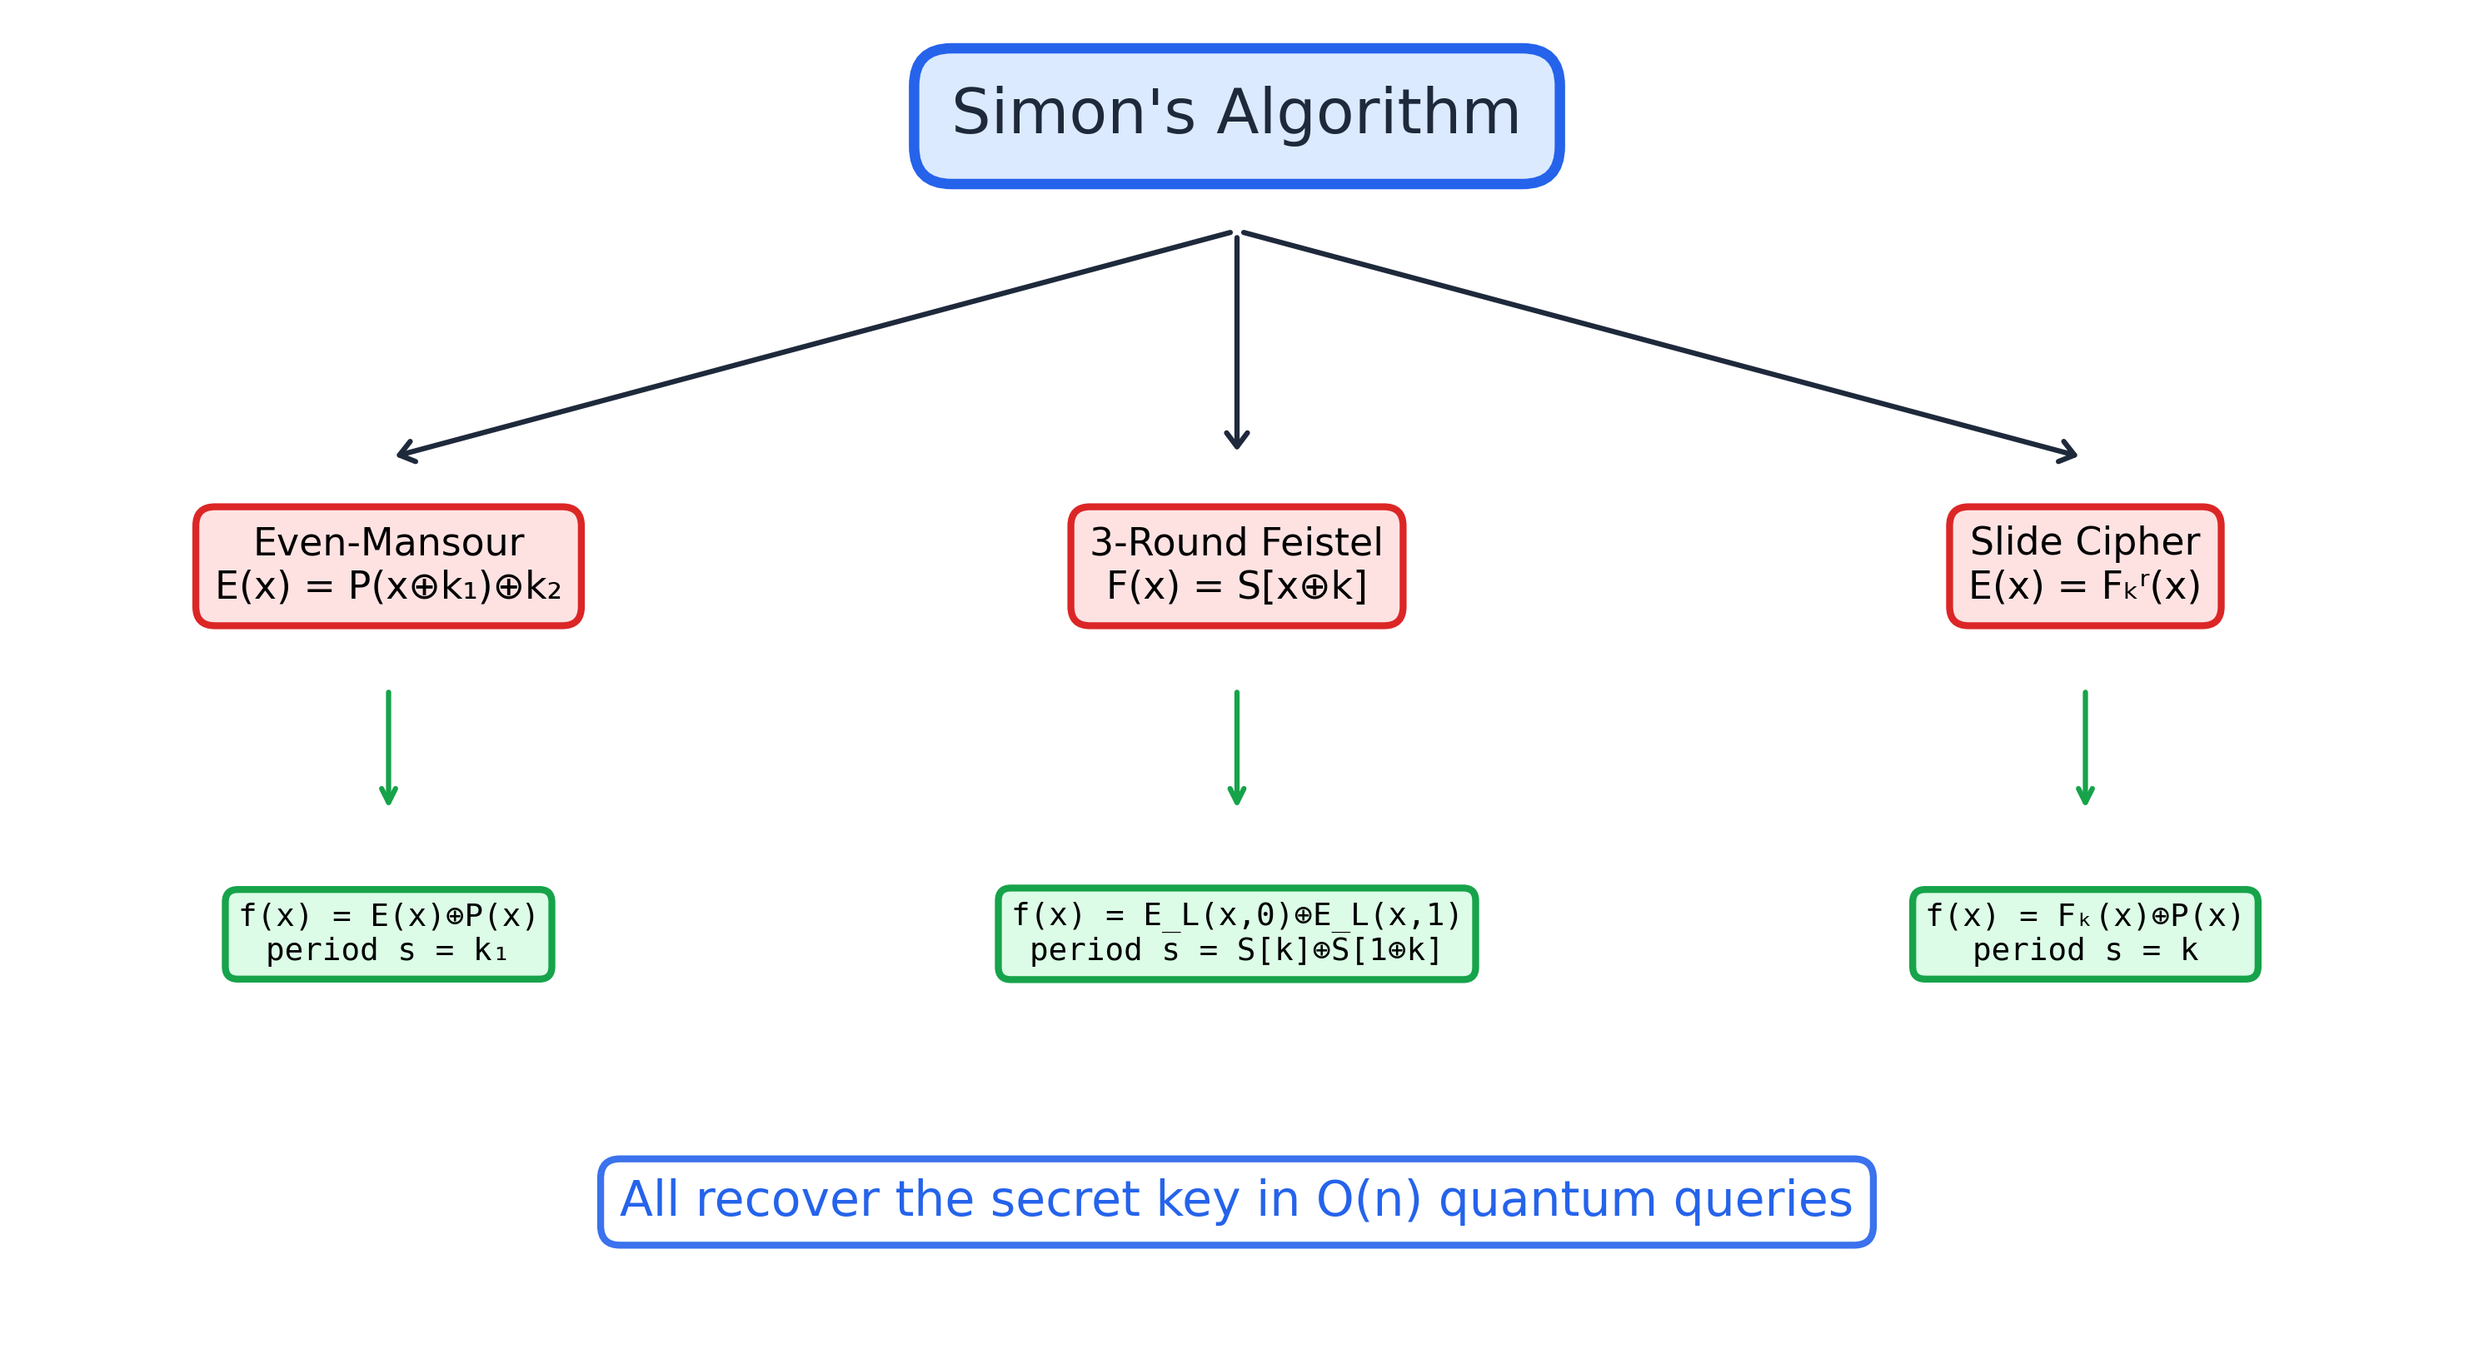
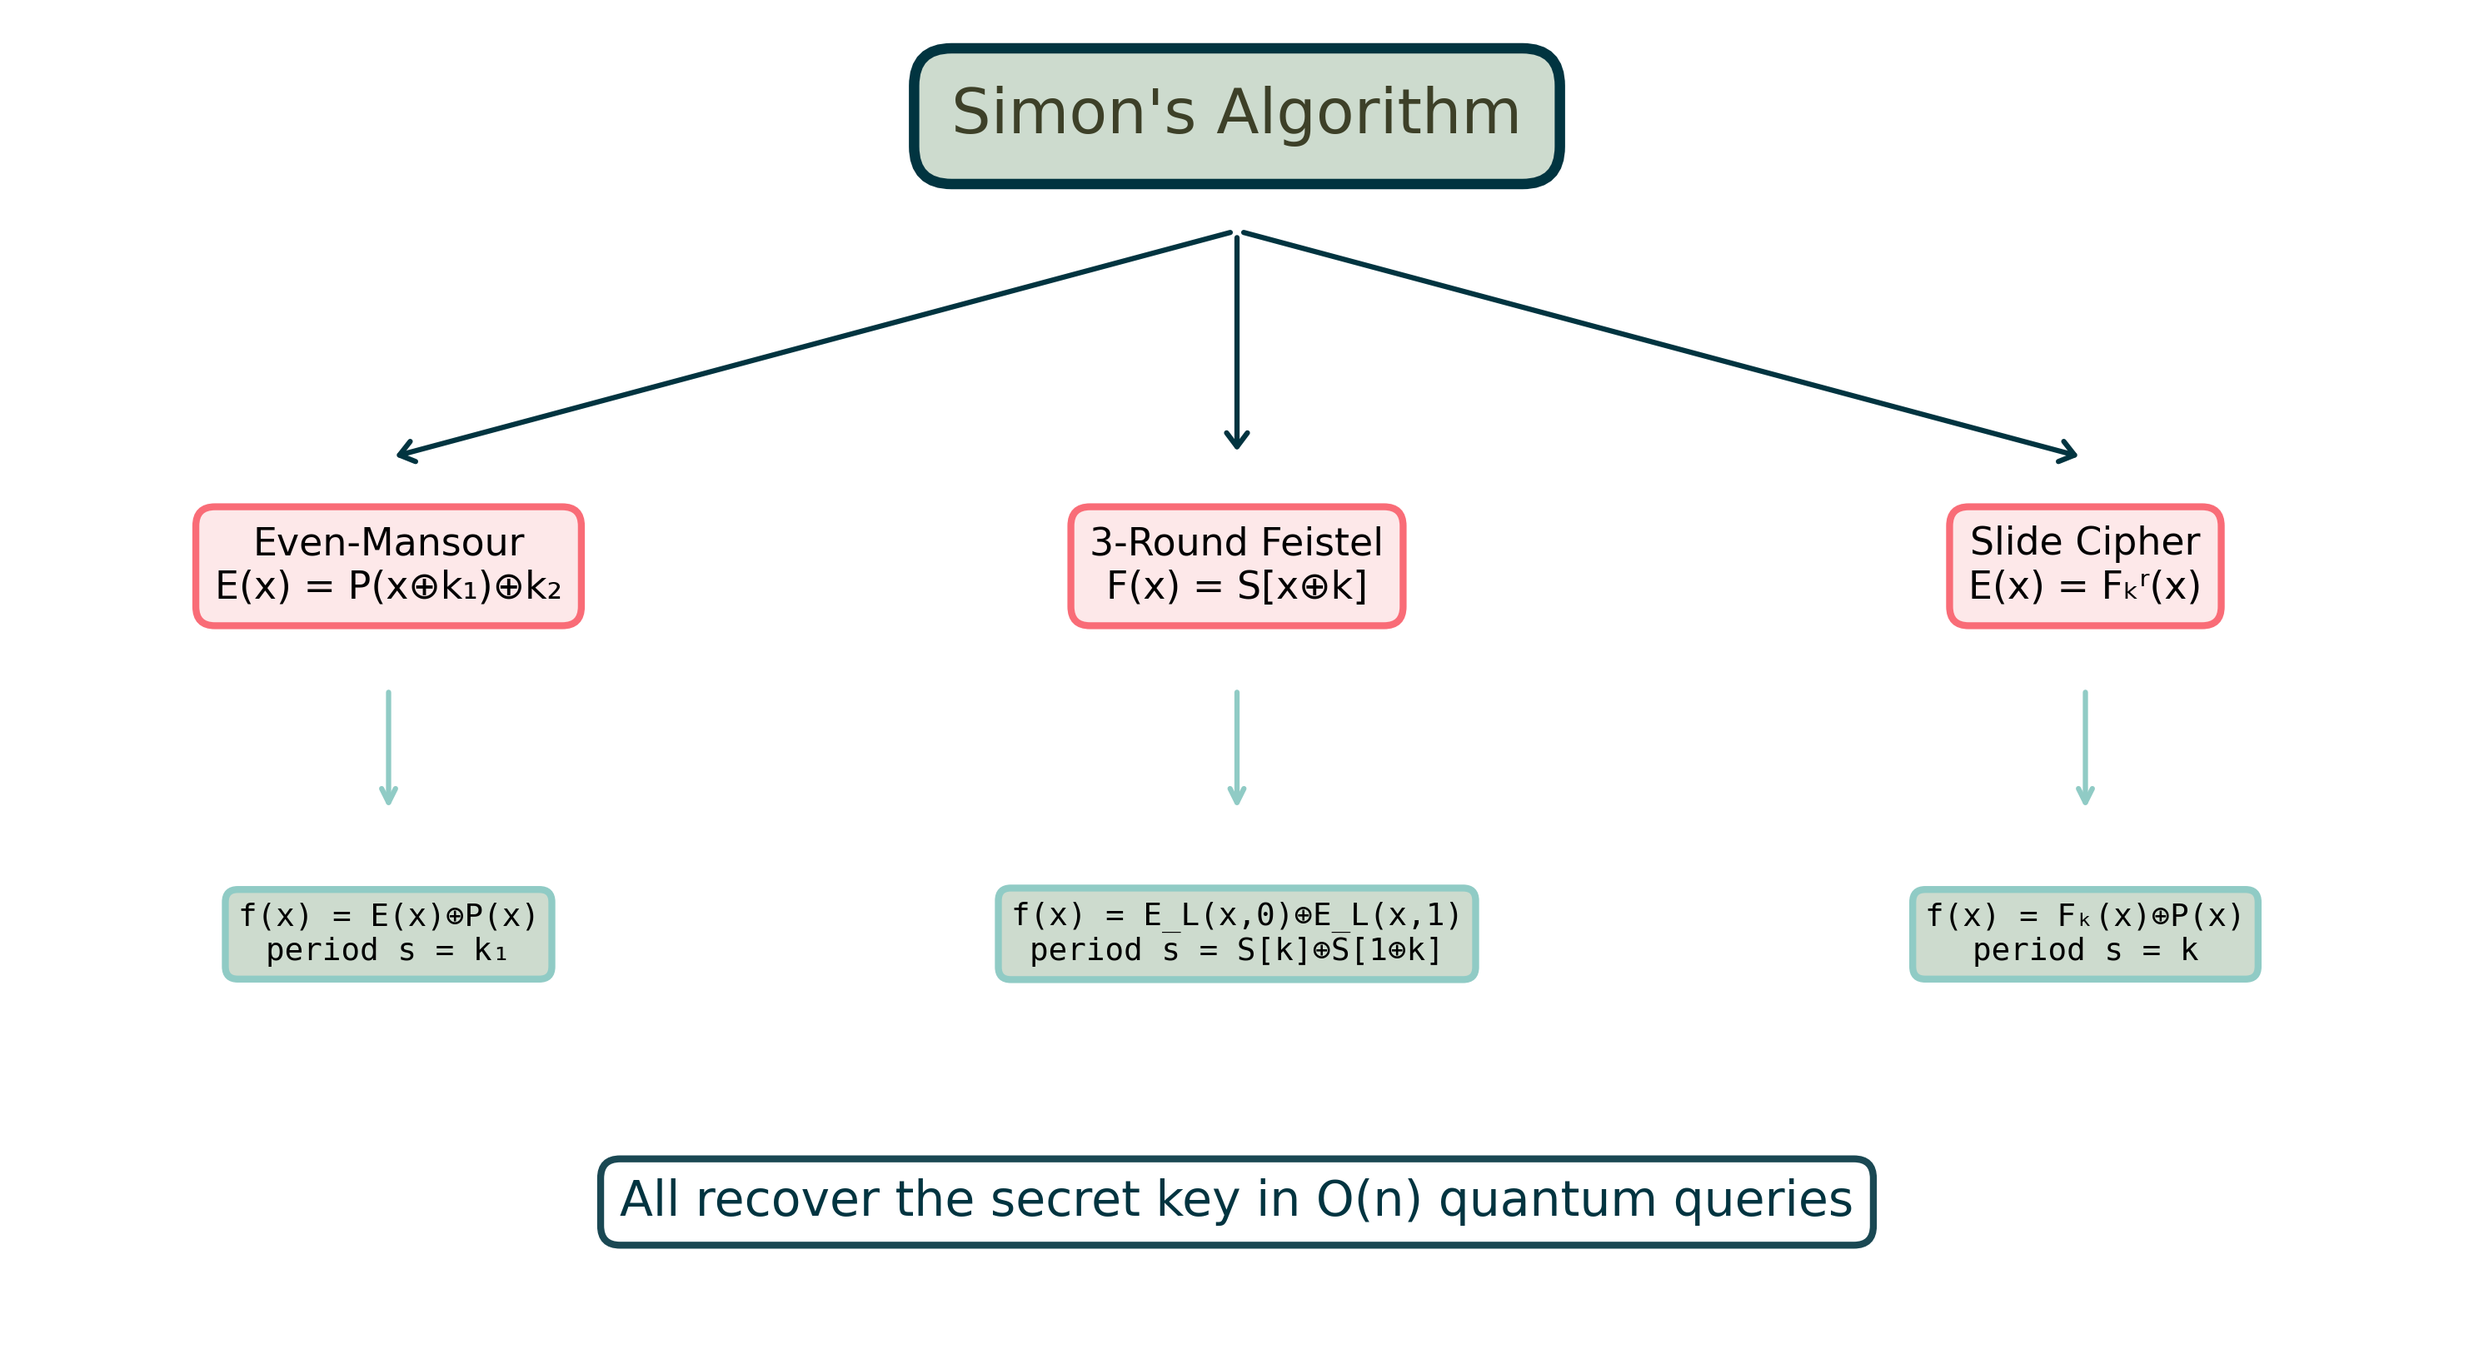
Update poster figures to sage/teal/coral color palette
New palette: #3D4028 (dark), #A5A685 (sage), #CDDBCE (mint),
#90CBC5 (teal), #013440 (navy), #F96C77 (coral for highlights).

https://claude.ai/code/session_017jT87xoW9hxJGxP6ZDqaGx

diff --git a/generate_poster_figures.py b/generate_poster_figures.py
@@ -19,14 +19,12 @@ OUT = Path("poster_figures")
 OUT.mkdir(exist_ok=True)
 
 COLORS = {
-    "blue":   "#2563EB",
-    "red":    "#DC2626",
-    "green":  "#16A34A",
-    "orange": "#EA580C",
-    "purple": "#7C3AED",
-    "teal":   "#0D9488",
-    "gray":   "#6B7280",
-    "dark":   "#1E293B",
+    "dark":   "#3D4028",
+    "sage":   "#A5A685",
+    "mint":   "#CDDBCE",
+    "teal":   "#90CBC5",
+    "navy":   "#013440",
+    "coral":  "#F96C77",
 }
 
 def style_ax(ax, title, xlabel, ylabel):
@@ -46,7 +44,7 @@ def fig_noise_phase_transition():
     fig, ax = plt.subplots(figsize=(7, 5))
 
     markers = ["o", "s", "D"]
-    colors = [COLORS["blue"], COLORS["red"], COLORS["orange"]]
+    colors = [COLORS["navy"], COLORS["teal"], COLORS["sage"]]
     for i, (n, rates) in enumerate(sorted(data.items(), key=lambda x: int(x[0]))):
         eps = [float(e) * 100 for e in sorted(rates.keys(), key=float)]
         success = [rates[e] * 100 for e in sorted(rates.keys(), key=float)]
@@ -54,12 +52,12 @@ def fig_noise_phase_transition():
                 linewidth=2.5, markersize=8, label=f"n = {n} bits",
                 zorder=3)
 
-    ax.axvspan(30, 42, alpha=0.12, color=COLORS["red"], zorder=0)
+    ax.axvspan(30, 42, alpha=0.15, color=COLORS["coral"], zorder=0)
     ax.annotate("Phase\ntransition", xy=(36, 72), fontsize=11,
-                color=COLORS["red"], ha="center", fontweight="normal")
+                color=COLORS["coral"], ha="center", fontweight="normal")
 
-    ax.axhline(y=50, color=COLORS["gray"], linestyle=":", linewidth=1, alpha=0.5)
-    ax.text(2, 52, "Random guessing", fontsize=9, color=COLORS["gray"])
+    ax.axhline(y=50, color=COLORS["sage"], linestyle=":", linewidth=1, alpha=0.5)
+    ax.text(2, 52, "Random guessing", fontsize=9, color=COLORS["sage"])
 
     style_ax(ax, "Noise Resilience: Sharp Phase Transition",
              "Measurement Noise Rate (%)", "Key Recovery Success (%)")
@@ -87,7 +85,7 @@ def fig_slide_round_independence():
         r_vals = [int(r) for r in rounds]
         success = [results[r]["success_rate"] * 100 for r in rounds]
         times = [results[r]["mean_time_s"] for r in rounds]
-        color = COLORS["blue"] if n_str == "3" else COLORS["red"]
+        color = COLORS["navy"] if n_str == "3" else COLORS["teal"]
         marker = "o" if n_str == "3" else "s"
 
         ax1.plot(r_vals, success, marker=marker, color=color,
@@ -106,8 +104,8 @@ def fig_slide_round_independence():
 
     ax1.annotate("Flat line = round count\nis irrelevant!",
                  xy=(50, 60), xytext=(10, 30),
-                 fontsize=10, color=COLORS["blue"],
-                 arrowprops=dict(arrowstyle="->", color=COLORS["blue"]),
+                 fontsize=10, color=COLORS["navy"],
+                 arrowprops=dict(arrowstyle="->", color=COLORS["navy"]),
                  fontweight="normal")
 
     style_ax(ax2, "Attack Time vs Round Count",
@@ -143,15 +141,15 @@ def fig_query_complexity():
     width = 0.35
 
     bars = ax.bar(x - width/2, means, width, yerr=stds, capsize=5,
-                  color=COLORS["blue"], alpha=0.85, label="Measured (mean ± std)",
+                  color=COLORS["navy"], alpha=0.85, label="Measured (mean ± std)",
                   zorder=3, edgecolor="white", linewidth=0.5)
     ax.bar(x + width/2, theoretical, width,
-           color=COLORS["gray"], alpha=0.4, label="Theoretical min (n−1)",
+           color=COLORS["sage"], alpha=0.5, label="Theoretical min (n−1)",
            zorder=3, edgecolor="white", linewidth=0.5)
 
     for i, (m, n) in enumerate(zip(means, n_vals)):
         ax.text(i - width/2, m + stds[i] + 0.3, f"{m/n:.2f}n",
-                ha="center", fontsize=9, fontweight="normal", color=COLORS["dark"])
+                ha="center", fontsize=9, fontweight="normal", color=COLORS["navy"])
 
     ax.set_xticks(x)
     ax.set_xticklabels([f"n={n}" for n in n_vals])
@@ -187,19 +185,19 @@ def fig_timing_curves():
             ns_em.append(n)
             times_em.append(entry["even_mansour_s"])
 
-    ax.semilogy(ns_simon, times_simon, "o-", color=COLORS["blue"],
+    ax.semilogy(ns_simon, times_simon, "o-", color=COLORS["navy"],
                 linewidth=2.5, markersize=8, label="Simon's (basic oracle)")
-    ax.semilogy(ns_em, times_em, "s-", color=COLORS["red"],
+    ax.semilogy(ns_em, times_em, "s-", color=COLORS["coral"],
                 linewidth=2.5, markersize=8, label="Even-Mansour (truth-table)")
 
     for n, t in zip(ns_simon, times_simon):
         label = f"{t:.2f}s" if t >= 0.1 else f"{t*1000:.0f}ms"
         ax.annotate(label, (n, t), textcoords="offset points",
-                    xytext=(10, 5), fontsize=9, color=COLORS["blue"])
+                    xytext=(10, 5), fontsize=9, color=COLORS["navy"])
     for n, t in zip(ns_em, times_em):
         label = f"{t:.1f}s" if t >= 1 else f"{t:.2f}s"
         ax.annotate(label, (n, t), textcoords="offset points",
-                    xytext=(10, -15), fontsize=9, color=COLORS["red"])
+                    xytext=(10, -15), fontsize=9, color=COLORS["coral"])
 
     style_ax(ax, "Simulation Time Scales Exponentially",
              "Key Size n (bits)", "Wall-Clock Time (seconds, log scale)")
@@ -220,7 +218,9 @@ def fig_rank_convergence():
 
     fig, ax = plt.subplots(figsize=(7, 5))
 
-    cmap = plt.cm.viridis
+    from matplotlib.colors import LinearSegmentedColormap
+    palette = [COLORS["navy"], COLORS["teal"], COLORS["mint"], COLORS["sage"], COLORS["dark"]]
+    cmap = LinearSegmentedColormap.from_list("poster", palette, N=256)
     n_keys = sorted(data.keys(), key=int)
     colors_list = [cmap(i / (len(n_keys) - 1)) for i in range(len(n_keys))]
 
@@ -238,10 +238,10 @@ def fig_rank_convergence():
         ax.plot(queries, fracs, "o-", color=colors_list[idx],
                 linewidth=2, markersize=5, label=f"n = {n_str}")
 
-    ax.axhline(y=50, color=COLORS["gray"], linestyle=":", linewidth=1, alpha=0.5)
-    ax.axhline(y=99, color=COLORS["green"], linestyle="--", linewidth=1, alpha=0.4)
-    ax.text(18, 52, "50%", fontsize=9, color=COLORS["gray"])
-    ax.text(18, 95, "99%", fontsize=9, color=COLORS["green"])
+    ax.axhline(y=50, color=COLORS["sage"], linestyle=":", linewidth=1, alpha=0.5)
+    ax.axhline(y=99, color=COLORS["teal"], linestyle="--", linewidth=1, alpha=0.4)
+    ax.text(18, 52, "50%", fontsize=9, color=COLORS["sage"])
+    ax.text(18, 95, "99%", fontsize=9, color=COLORS["teal"])
 
     style_ax(ax, "How Quickly Does Simon's Algorithm Converge?",
              "Number of Oracle Queries", "Trials Solved (%)")
@@ -265,7 +265,7 @@ def fig_success_rates():
 
     attacks = ["simon_basic", "even_mansour", "feistel_3round", "slide_5rounds"]
     labels = ["Simon's", "Even-Mansour", "3-Round Feistel", "Slide Attack"]
-    atk_colors = [COLORS["blue"], COLORS["red"], COLORS["green"], COLORS["orange"]]
+    atk_colors = [COLORS["navy"], COLORS["teal"], COLORS["sage"], COLORS["coral"]]
 
     ns = ["3", "4", "5"]
     x = np.arange(len(ns))
@@ -282,7 +282,7 @@ def fig_success_rates():
         for j, v in enumerate(vals):
             if data[ns[j]].get(atk) is None:
                 ax.text(x[j] + offset, 3, "N/A", ha="center", fontsize=8,
-                        color=COLORS["gray"], rotation=90)
+                        color=COLORS["sage"], rotation=90)
             elif v < 100:
                 ax.text(x[j] + offset, v + 2, f"{v:.0f}%", ha="center",
                         fontsize=9, fontweight="normal")
@@ -310,19 +310,19 @@ def fig_simon_vs_grover():
     grover_queries = [int(np.pi / 4 * 2 ** (n / 2)) for n in n_vals]
     classical = [2 ** n for n in n_vals]
 
-    ax.semilogy(n_vals, classical, "^--", color=COLORS["gray"],
+    ax.semilogy(n_vals, classical, "^--", color=COLORS["sage"],
                 linewidth=2, markersize=8, label="Classical brute force  O(2ⁿ)",
                 alpha=0.6)
-    ax.semilogy(n_vals, grover_queries, "s-", color=COLORS["orange"],
+    ax.semilogy(n_vals, grover_queries, "s-", color=COLORS["teal"],
                 linewidth=2.5, markersize=8, label="Grover's search  O(2^{n/2})")
-    ax.semilogy(n_vals, simon_queries, "o-", color=COLORS["blue"],
+    ax.semilogy(n_vals, simon_queries, "o-", color=COLORS["navy"],
                 linewidth=2.5, markersize=10, label="Simon's algorithm  O(n)")
 
     ax.fill_between(n_vals, simon_queries, grover_queries,
-                    alpha=0.1, color=COLORS["blue"])
+                    alpha=0.1, color=COLORS["navy"])
     ax.annotate("Exponential\ngap!",
                 xy=(64, 1e5), fontsize=13, fontweight="normal",
-                color=COLORS["blue"], ha="center")
+                color=COLORS["coral"], ha="center")
 
     style_ax(ax, "Simon's Algorithm vs Classical & Grover",
              "Key Size n (bits)", "Oracle Queries (log scale)")
@@ -346,7 +346,7 @@ def fig_resource_estimates():
     t_gates = [13.1e6, 104.9e6, 838.9e6]
 
     bars1 = ax1.bar(targets, [q / 1e6 for q in physical_qubits],
-                    color=[COLORS["blue"], COLORS["red"], COLORS["purple"]],
+                    color=[COLORS["teal"], COLORS["navy"], COLORS["dark"]],
                     alpha=0.85, edgecolor="white", linewidth=0.5, zorder=3)
     for bar, q in zip(bars1, physical_qubits):
         label = f"~{q/1e6:.1f}M" if q >= 1e6 else f"~{q/1e3:.0f}K"
@@ -357,7 +357,7 @@ def fig_resource_estimates():
              "", "Millions of Physical Qubits")
 
     bars2 = ax2.bar(targets, [t / 1e6 for t in t_gates],
-                    color=[COLORS["blue"], COLORS["red"], COLORS["purple"]],
+                    color=[COLORS["teal"], COLORS["navy"], COLORS["dark"]],
                     alpha=0.85, edgecolor="white", linewidth=0.5, zorder=3)
     for bar, t in zip(bars2, t_gates):
         ax2.text(bar.get_x() + bar.get_width()/2, bar.get_height() + 10,
@@ -381,7 +381,7 @@ def fig_prince_security():
     methods = ["Classical\nexhaustive", "Classical\nmeet-in-middle",
                "Quantum\nGrover", "Quantum\nGrover-meet-Simon"]
     bits = [127, 64, 64, 37]
-    colors = [COLORS["gray"], COLORS["gray"], COLORS["orange"], COLORS["red"]]
+    colors = [COLORS["sage"], COLORS["sage"], COLORS["teal"], COLORS["coral"]]
 
     bars = ax.bar(methods, bits, color=colors, alpha=0.85,
                   edgecolor="white", linewidth=0.5, zorder=3, width=0.6)
@@ -392,11 +392,11 @@ def fig_prince_security():
 
     ax.annotate("", xy=(3, 40), xytext=(0, 127),
                 arrowprops=dict(arrowstyle="->,head_width=0.4",
-                                color=COLORS["red"], linewidth=2.5))
+                                color=COLORS["coral"], linewidth=2.5))
     ax.text(1.5, 88, "90-bit\nreduction!", fontsize=14,
-            fontweight="normal", color=COLORS["red"], ha="center",
+            fontweight="normal", color=COLORS["coral"], ha="center",
             bbox=dict(boxstyle="round,pad=0.3", facecolor="white",
-                      edgecolor=COLORS["red"], alpha=0.9))
+                      edgecolor=COLORS["coral"], alpha=0.9))
 
     style_ax(ax, "PRINCE-64 Cipher: Security Under Different Attacks",
              "", "Effective Security (bits)")
@@ -415,17 +415,17 @@ def fig_attack_overview():
     ax.set_ylim(0, 6)
     ax.axis("off")
 
-    box_style = dict(boxstyle="round,pad=0.5", facecolor="#E0E7FF",
-                     edgecolor=COLORS["blue"], linewidth=2)
-    target_style = dict(boxstyle="round,pad=0.5", facecolor="#FEE2E2",
-                        edgecolor=COLORS["red"], linewidth=2)
-    result_style = dict(boxstyle="round,pad=0.4", facecolor="#DCFCE7",
-                        edgecolor=COLORS["green"], linewidth=2)
+    box_style = dict(boxstyle="round,pad=0.5", facecolor=COLORS["mint"],
+                     edgecolor=COLORS["navy"], linewidth=2)
+    target_style = dict(boxstyle="round,pad=0.5", facecolor="#FDE8E9",
+                        edgecolor=COLORS["coral"], linewidth=2)
+    result_style = dict(boxstyle="round,pad=0.4", facecolor=COLORS["mint"],
+                        edgecolor=COLORS["teal"], linewidth=2)
 
     ax.text(5, 5.5, "Simon's Algorithm", fontsize=18, ha="center",
             fontweight="normal", color=COLORS["dark"],
-            bbox=dict(boxstyle="round,pad=0.6", facecolor="#DBEAFE",
-                      edgecolor=COLORS["blue"], linewidth=3))
+            bbox=dict(boxstyle="round,pad=0.6", facecolor=COLORS["mint"],
+                      edgecolor=COLORS["navy"], linewidth=3))
 
     targets = [
         (1.5, 3.5, "Even-Mansour\nE(x) = P(x⊕k₁)⊕k₂"),
@@ -437,7 +437,7 @@ def fig_attack_overview():
                 bbox=target_style)
         ax.annotate("", xy=(x, 4.0), xytext=(5, 5.05),
                     arrowprops=dict(arrowstyle="->,head_width=0.3",
-                                    color=COLORS["dark"], linewidth=1.5))
+                                    color=COLORS["navy"], linewidth=1.5))
 
     reductions = [
         (1.5, 1.8, "f(x) = E(x)⊕P(x)\nperiod s = k₁"),
@@ -447,14 +447,14 @@ def fig_attack_overview():
     for (tx, ty, _), (rx, ry, rtext) in zip(targets, reductions):
         ax.annotate("", xy=(rx, ry + 0.55), xytext=(tx, ty - 0.55),
                     arrowprops=dict(arrowstyle="->,head_width=0.2",
-                                    color=COLORS["green"], linewidth=1.5))
+                                    color=COLORS["teal"], linewidth=1.5))
         ax.text(rx, ry, rtext, fontsize=9, ha="center", va="center",
                 bbox=result_style, family="monospace")
 
     ax.text(5, 0.5, "All recover the secret key in O(n) quantum queries",
-            fontsize=14, ha="center", fontweight="normal", color=COLORS["blue"],
+            fontsize=14, ha="center", fontweight="normal", color=COLORS["navy"],
             bbox=dict(boxstyle="round,pad=0.4", facecolor="white",
-                      edgecolor=COLORS["blue"], linewidth=2, alpha=0.9))
+                      edgecolor=COLORS["navy"], linewidth=2, alpha=0.9))
 
     fig.tight_layout()
     fig.savefig(OUT / "10_attack_overview.png", dpi=300, bbox_inches="tight")
